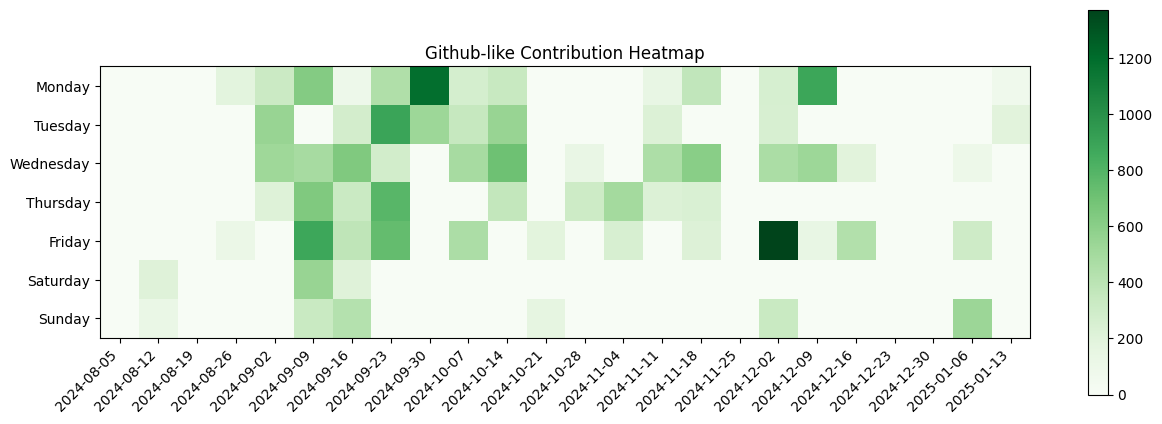
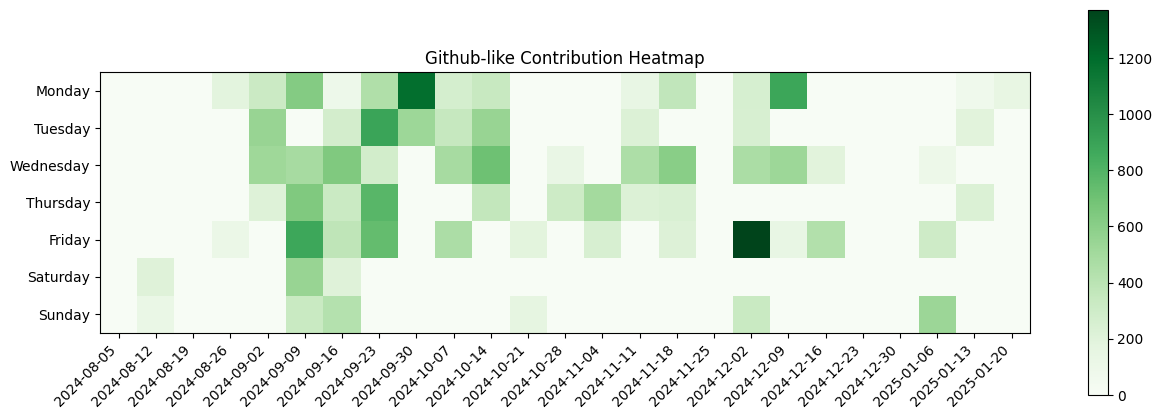
Update

diff --git a/README.md b/README.md
@@ -65,4 +65,6 @@
 20250112 235.22 (6.97-0.78)*38   298.20 (6.76-0.80)*50
 20250113 74.36 (6.83-0.64)*12
 20250114 191.09 (6.53-0.91)*34
+20250116 229.95 (6.40-1.05)*43
+20250120 139.79 (6.03-1.21)*29
 ```
